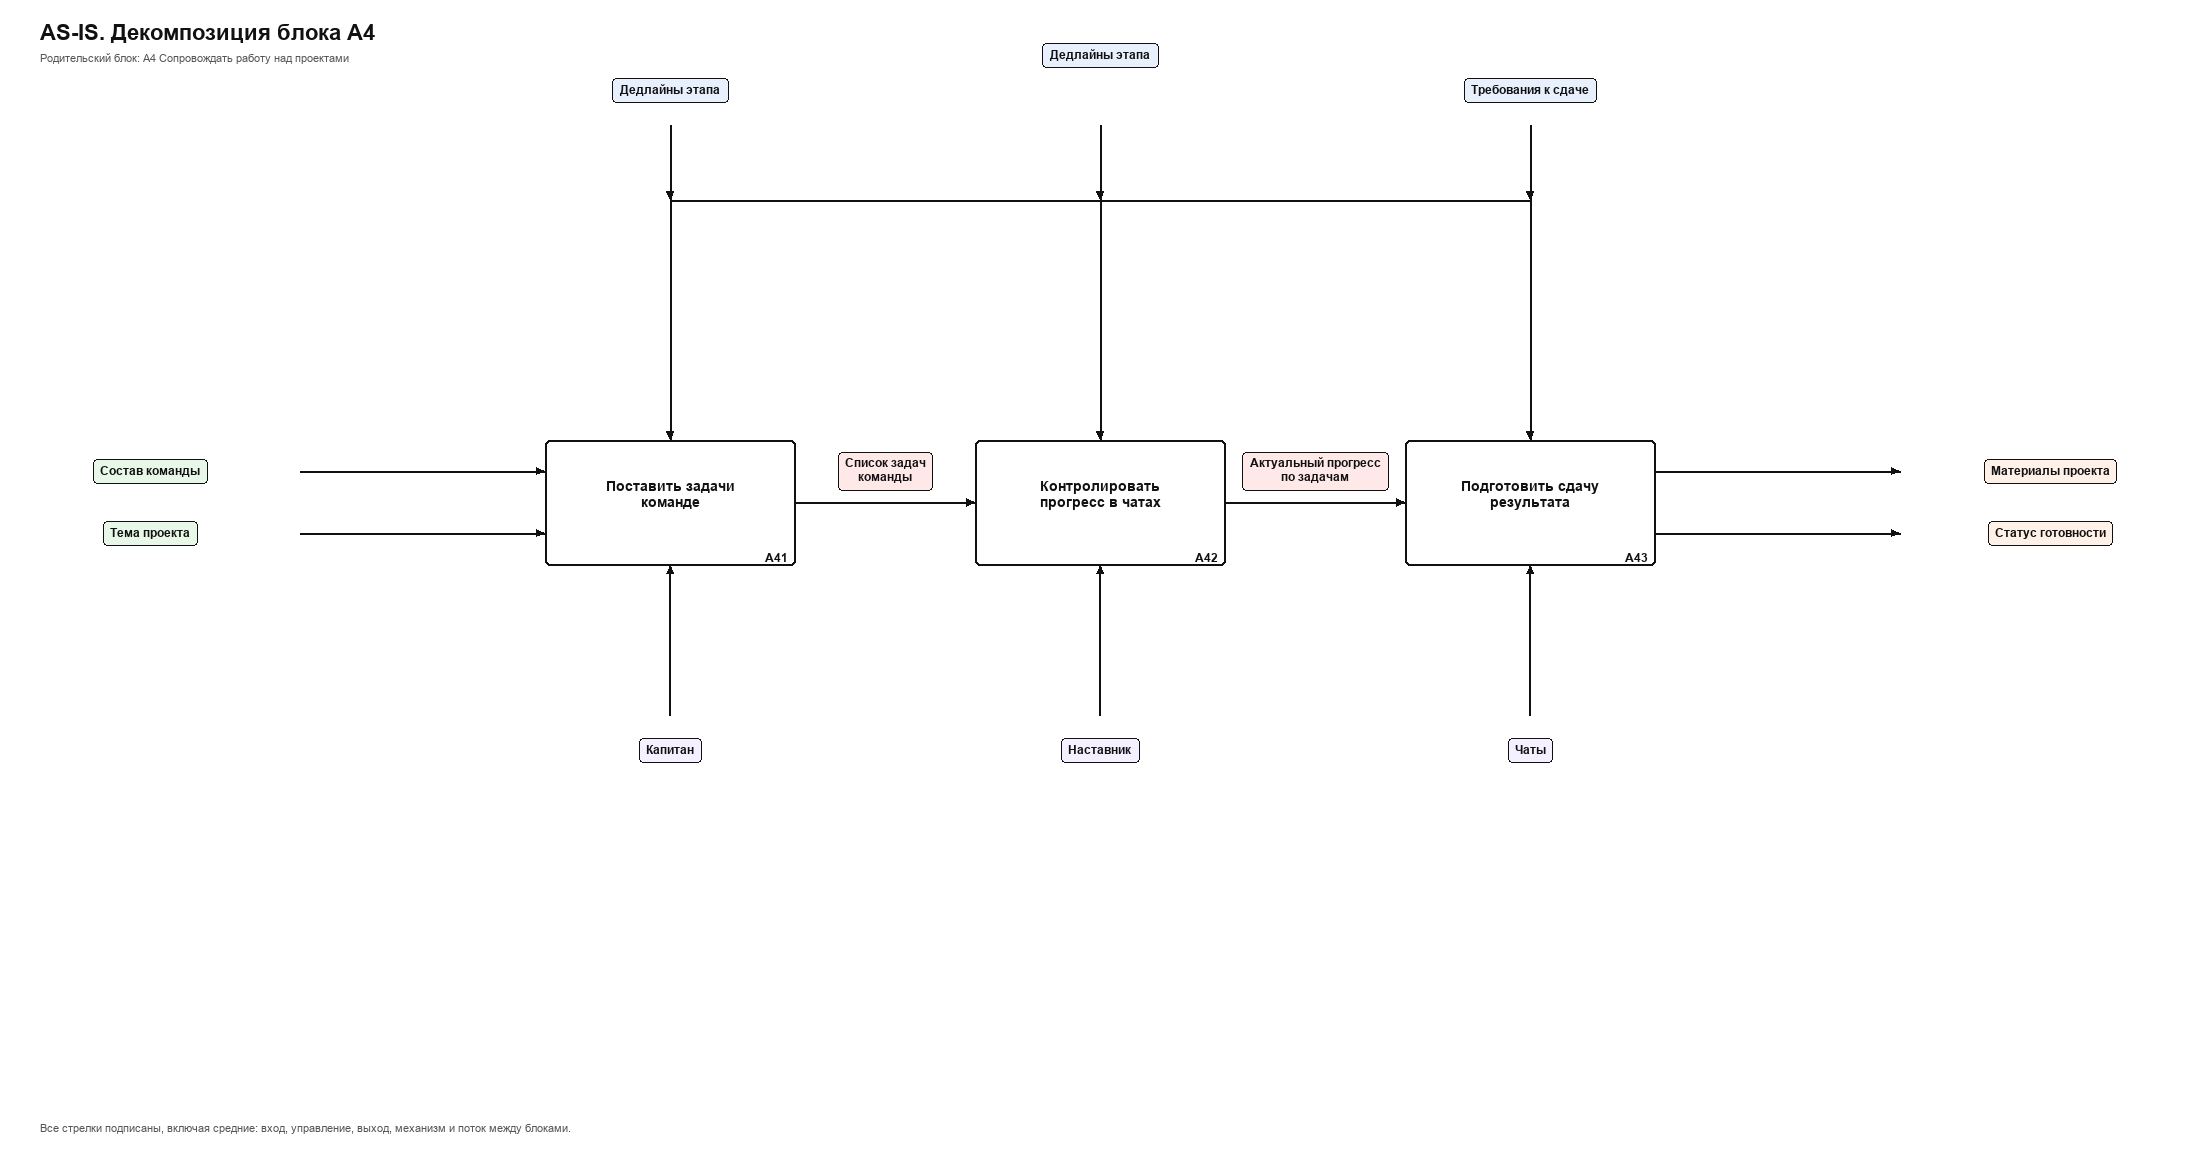
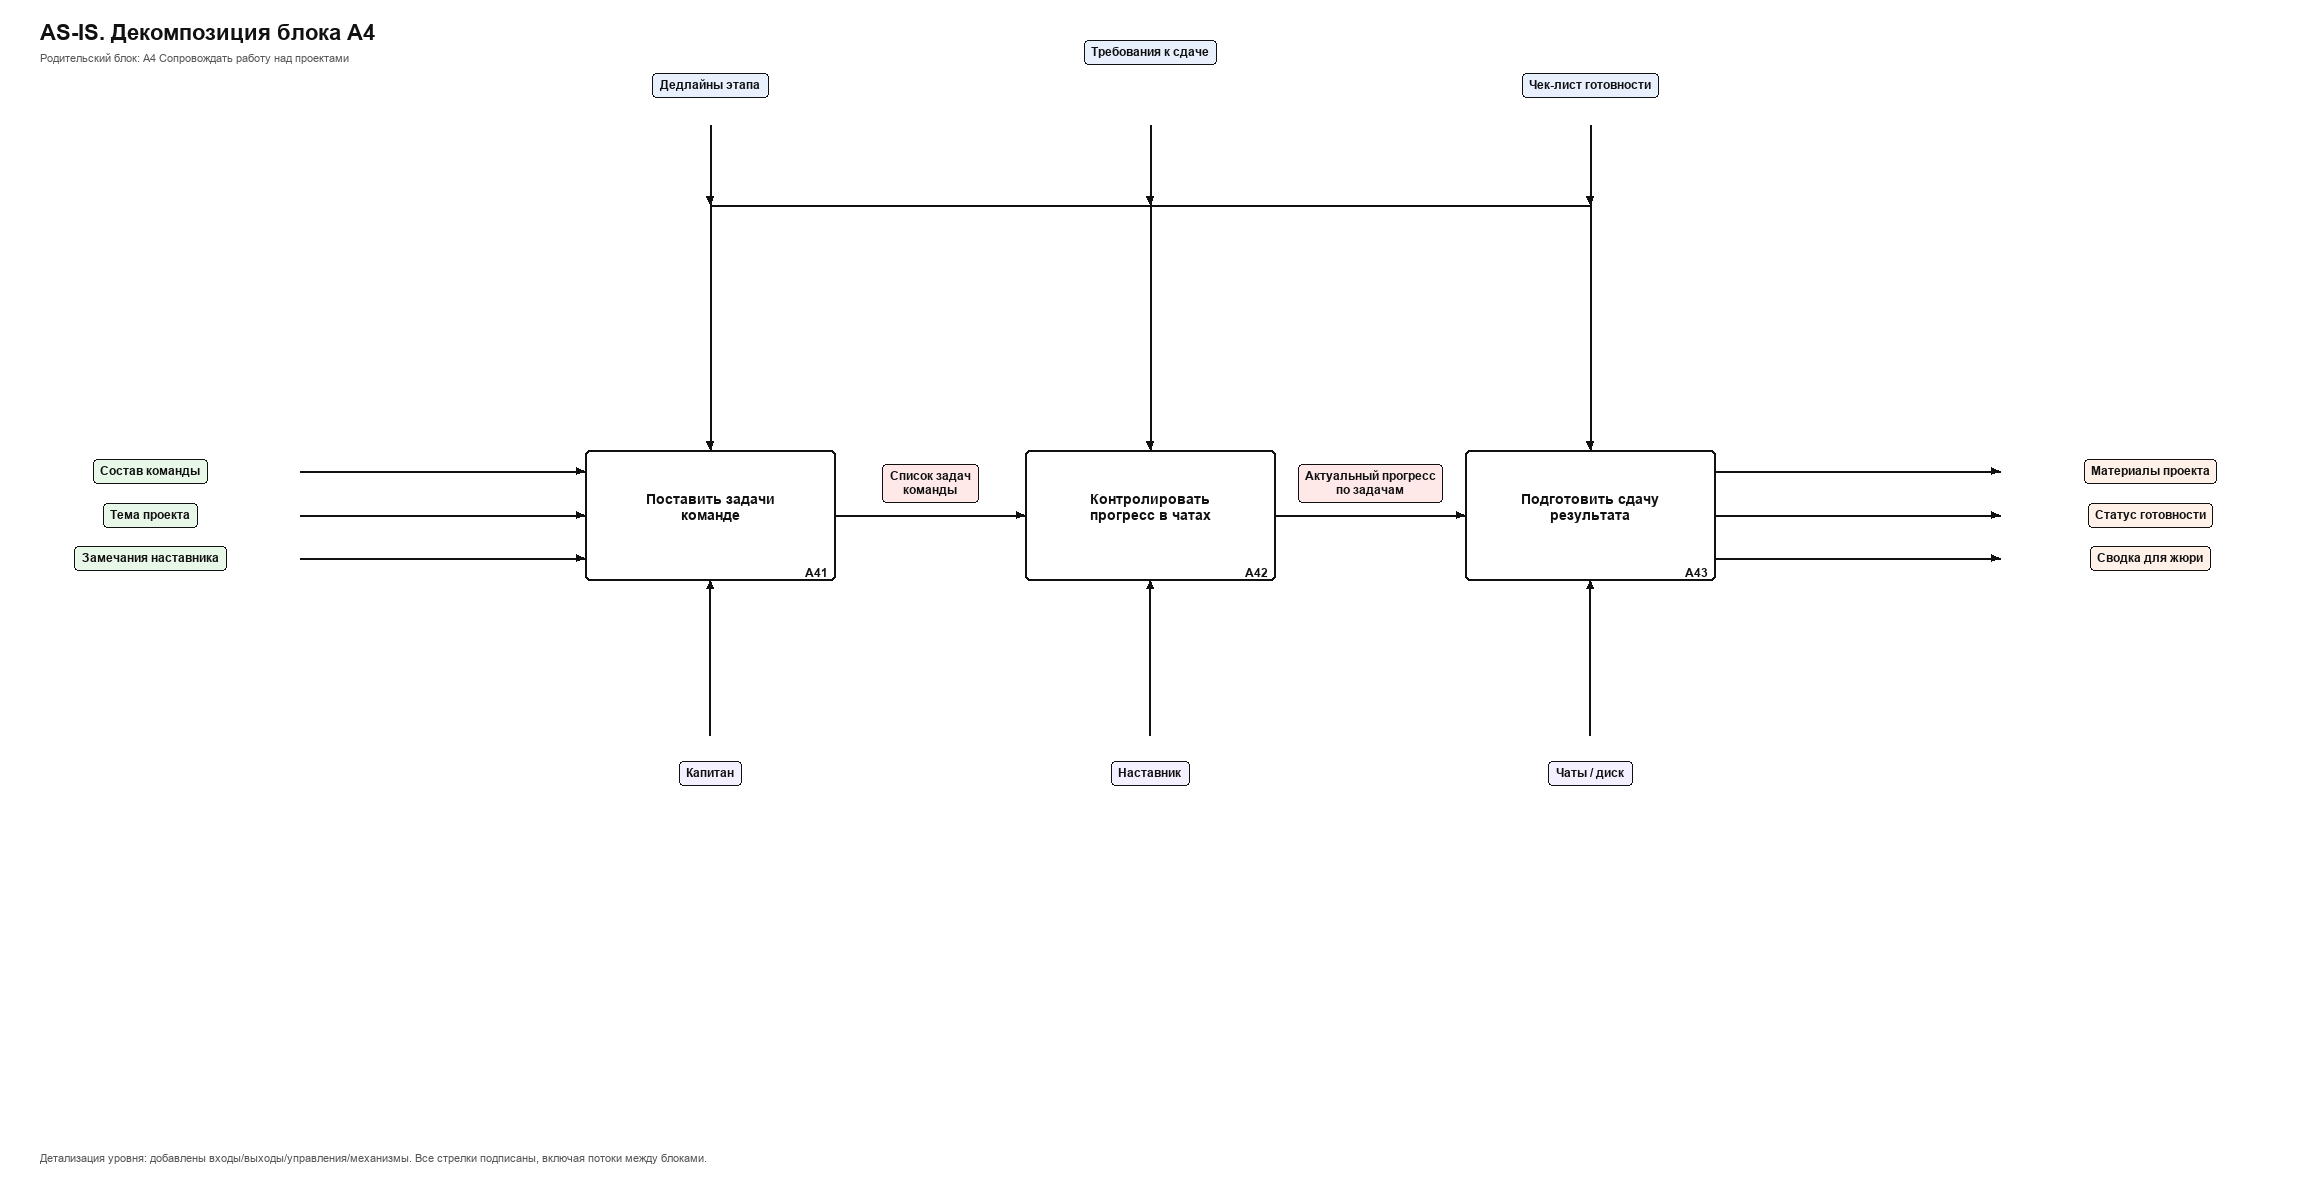
Redistribute A0 inputs by meaning and enrich lower-level ICOM
Teacher feedback: applications do not enter A1; parent inputs go to the matching child blocks. Detail diagrams add extra controls, outputs and mechanisms for a stronger max-score case.

diff --git a/02_idef0_biznes_processy/README.md b/02_idef0_biznes_processy/README.md
@@ -63,7 +63,15 @@
 | A5 | Оценить проекты и подвести итоги |
 
 **Пояснение.**  
-Процесс разбит на 5 последовательных функций. Между блоками передаются промежуточные результаты: анонс, список заявок, состав команд, ход работы, материалы к оценке.  
+Процесс разбит на 5 последовательных функций. Между блоками передаются промежуточные результаты: анонс, список заявок, состав команд, ход работы, материалы к оценке.
+
+Входы родительской A-0 распределены по блокам по смыслу, а не сведены в A1:
+- в A1 входят данные мероприятия (подготовка и анонс);
+- в A2 входят заявки участников (сбор и модерация);
+- в A3 входят идеи проектов (формирование команд вокруг тем).
+
+У каждого блока своё управление: регламент, правила допуска, правила команд, сроки этапов, критерии оценки.
+
 Слабые места AS-IS: заявки приходят из разных каналов, статусы теряются, оценки сводятся вручную, портфолио почти не формируется.
 
 ---
@@ -79,7 +87,7 @@
 | A23 | Проверить и принять / отклонить |
 
 **Пояснение.**  
-Показывает, почему заявки теряются: сначала сбор из чатов и почты, затем ручное сведение, затем решение организатора. Нет единого статуса заявки и автоматических уведомлений.
+Показывает, почему заявки теряются: сначала сбор из чатов и почты, затем ручное сведение, затем решение организатора. Нет единого статуса заявки и автоматических уведомлений. На этом уровне добавлены шаблон анкеты, журнал переписки и раздельные механизмы (организатор / таблица / почта и чаты).
 
 ---
 
@@ -155,6 +163,8 @@
 **Пояснение.**  
 Структура из 5 блоков сохранена специально, чтобы сравнивать с AS-IS один в один.  
 Отличие: каждая функция опирается на ИС. Статусы, права, уведомления и отчёты ведутся централизованно.
+
+Распределение входов родителя то же, что в AS-IS: данные мероприятия → A1, заявки → A2, идеи проектов → A3. На детальных диаграммах A2–A5 добавлены дополнительные входы, выходы, управления и механизмы (шаблоны форм, права ролей, логи уведомлений, автоподсчёт и т.д.).
 
 ---
 
